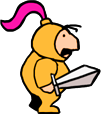
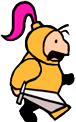
アニメーション

diff --git a/src/EnemyBat.js b/src/EnemyBat.js
@@ -1,6 +1,3 @@
-var HoverHeight = 300; //ホバリング
-var RiseHeight = 240; //Rise上昇
-
 var enemyBat;
 
 var enemyLayer = cc.Layer.extend({
@@ -16,7 +13,7 @@ var enemyLayer = cc.Layer.extend({
 var EnemyBat = cc.Sprite.extend({
   ctor: function() {
     this._super();
-    this.initWithFile(res.bat_frames);
+    this.initWithFile(res.zonbi_frames);
     this.velocity = cc.p(0, 0);
     this.FrameCount = 0;
 
@@ -28,17 +25,13 @@ var EnemyBat = cc.Sprite.extend({
       }
     }
 
-    var animationframe = [];
     //スプライトフレームを格納する配列
-    var texture = cc.textureCache.addImage(res.bat_frames);
-    for (i = 0; i < 2; i++) {
-      for (j = 0; j < 2; j++) {
+    var animationframe = [];
+
+    var frame1 = new cc.SpriteFrame(res.zonbi01_png, cc.rect(0, 0, 96, 120));
         //スプライトフレームを作成
-        var frame = new cc.SpriteFrame.createWithTexture(texture, cc.rect(160 * j, 96 * i, 160, 96));
-        //スプライトフレームを配列に登録
-        animationframe.push(frame);
-      }
-    }
+        animationframe.push(frame1);
+
     //スプライトフレームの配列を連続再生するアニメーションの定義
     var animation = new cc.Animation(animationframe, 0.08);
     //永久ループのアクションを定義
@@ -50,45 +43,4 @@ var EnemyBat = cc.Sprite.extend({
 
   },
 
-  update: function(dt) {
-    this.FrameCount++;
-    //4フレームに1回　こうもりの移動計算する
-    if (this.FrameCount % 4 == 0) {
-      //プレイヤーの位置をこうもりの位置の差を計算
-      var offset_x = player.getPosition().x - this.getPosition().x;
-      var offset_y = player.getPosition().y - this.getPosition().y;
-      //offset_x = offset_x*Math.sin(offset_x);
-      //蝙蝠のｘ移動速度をプレイヤとこうもりの間の距離の0.05倍にする
-      var velocity_x = lerp(this.velocity.x, offset_x, 0.005);
-      var velocity_y = this.velocity.y;
-      //フォバリング高度より上なら下降させる。　降下下限高度より下にいたら、上昇させる
-      if (this.getPosition().y > HoverHeight) velocity_y += -0.035;
-      if (this.getPosition().y < RiseHeight) velocity_y += 0.05;
-      //プレイヤーの位置よりできるだけ下にならないように
-      if (this.getPosition().y < player.y + 20) velocity_y += 0.05;
-      //8の字旋回軌道をsin計算で適当に補正
-      velocity_y += 0.075 * Math.sin(this.FrameCount * 0.015) * Math.sin(this.FrameCount * 0.04);
-
-      //console.log(velocity_x, velocity_y);
-
-      this.velocity.x = velocity_x;
-      this.velocity.y = velocity_y;
-
-      //  console.log(MoveDirection, this.velocity.x, offset.x);
-      if (this.velocity.x <= 0)
-        this.setFlippedX(true);
-      if (this.velocity.x > 0)
-        this.setFlippedX(false);
-
-      this.setPosition(this.getPosition().x + this.velocity.x, this.getPosition().y + this.velocity.y);
-    }
-
-  }
-
-
-
 });
-//始点、終点、の間で 0～1.0の割合の位置を返す関数
-function lerp(fStart, fEnd, fPercent) {
-  return fStart + ((fEnd - fStart) * fPercent);
-}

diff --git a/src/app.js b/src/app.js
@@ -2,11 +2,11 @@ var size;
 //1:地面　2:ブロック　3:プレイヤ　4:ゾンビ 5:こうもり
 var level = [
    [0, 0, 0, 0, 0, 0, 0, 0, 0, 0],
-   [0, 0, 0, 0, 0, 0, 0, 5, 0, 0],
+   [0, 0, 0, 0, 0, 0, 0, 0, 0, 0],
    [0, 0, 0, 0, 0, 0, 2, 2, 2, 0],
    [6, 0, 0, 0, 0, 0, 0, 0, 0, 7],
    [0, 0, 0, 2, 2, 2, 0, 0, 0, 0],
-   [0, 0, 0, 0, 3, 0, 0, 0, 4, 0],
+   [0, 0, 0, 0, 3, 0, 0, 5, 4, 0],
    [1, 1, 1, 1, 1, 1, 1, 1, 1, 1]
 ];
 var tileSize = 96;
@@ -70,7 +70,7 @@ var levelLayer = cc.Layer.extend({
             switch (level[i][j]) {
                case 1:
                   var groundSprite = cc.Sprite.create(res.ground_png);
-                  groundSprite.setPosition(tileSize * 4, tileSize * 1.1);
+                  groundSprite.setPosition(tileSize * 4, tileSize * 1.2);
                   this.addChild(groundSprite);
                   break;
                case 2:
@@ -146,7 +146,7 @@ var Player = cc.Sprite.extend({
       for (i = 0; i < 7; i++) {　　　　　　
          for (j = 0; j < 10; j++) {
             if (level[i][j] == 3) {
-               this.setPosition(tileSize / 2 + tileSize * j, 96 * (7 - i) - tileSize / 1.4);
+               this.setPosition(tileSize / 2 + tileSize * j, 96 * (7 - i) - tileSize / 1.6);
                playerPosition = {
                   x: j,
                   y: i
@@ -164,11 +164,13 @@ var Player = cc.Sprite.extend({
           var frame2 = new cc.SpriteFrame(res.player02_png, cc.rect(0, 0, 96, 120));
           var frame3 = new cc.SpriteFrame(res.player03_png, cc.rect(0, 0, 96, 120));
           var frame4 = new cc.SpriteFrame(res.player04_png, cc.rect(0, 0, 96, 120));
+          var frame5 = new cc.SpriteFrame(res.player05_png, cc.rect(0, 0, 96, 120));
           //スプライトフレームを配列に登録
           animationframe.push(frame1);
           animationframe.push(frame2);
           animationframe.push(frame3);
           animationframe.push(frame4);
+          animationframe.push(frame5);
           //スプライトフレームの配列を連続再生するアニメーションの定義
           var animation = new cc.Animation(animationframe, 0.4);
           //永久ループのアクションを定義
@@ -207,7 +209,7 @@ var Player = cc.Sprite.extend({
       animationframe.push(frame1);
       animationframe.push(frame2);
       //スプライトフレームの配列を連続再生するアニメーションの定義
-      var animation = new cc.Animation(animationframe, 0.08);
+      var animation = new cc.Animation(animationframe, 0.8);
       //永久ループのアクションを定義
       //var action = new cc.RepeatForever(new cc.animate(animation));
       //実行

diff --git a/src/title.js b/src/title.js
@@ -1,0 +1,55 @@
+//myScene.js
+var MyLayer = cc.Layer.extend({
+    ctor: function() {
+        this._super();
+
+        var size = cc.director.getWinSize();
+
+        var TitleBG_png = cc.Sprite.create(res.TitleBG_png);
+         TitleBG_png.setPosition(size.width/2, size.height/2);
+        this.addChild(TitleBG_png);
+
+        var Title_png = cc.Sprite.create(res.Title_png);
+         Title_png.setPosition(480, 330);
+        this.addChild(Title_png);
+
+        var start_png = cc.Sprite.create(res.start_png);
+        start_png.setPosition(size.width / 2, size.height / 4);
+        this.addChild(start_png);
+        //add code
+         //タップイベントリスナーを登録する
+        cc.eventManager.addListener({
+            event: cc.EventListener.TOUCH_ONE_BY_ONE,
+            swallowTouches: true,
+            onTouchBegan: this.onTouchBegan,
+            onTouchMoved: this.onTouchMoved,
+            onTouchEnded: this.onTouchEnded
+        }, this);
+
+        return true;
+    },
+
+    onTouchBegan: function(touch, event) {
+        return true;
+    },
+    onTouchMoved: function(touch, event) {},
+    onTouchEnded: function(touch, event) {
+      //bgmの再生をとめる
+        /*if (audioEngine.isMusicPlaying()) {
+          audioEngine.stopMusic();
+        }*/
+        //クリック時のSE再生
+        //audioEngine.playEffect("res/zabun.mp3");
+        //audioEngine.playEffect("res/se_select16.wav");
+        // 次のシーンに切り替える
+        cc.director.runScene(new gameScene());
+    },
+});
+
+var MyScene = cc.Scene.extend({
+    onEnter: function() {
+        this._super();
+        var layer = new MyLayer();
+        this.addChild(layer);
+    }
+});

diff --git a/src/resource.js b/src/resource.js
@@ -1,4 +1,6 @@
 var res = {
+  //タイトル
+  Title_png: "res/titl.png",
   //プレイヤー
   player_sheet: "res/sir_awesome_frames.png",
   player_plist: "res/player.plist",
@@ -6,6 +8,7 @@ var res = {
   player02_png: "res/player2.png",
   player03_png: "res/player3.png",
   player04_png: "res/player4.png",
+  player05_png: "res/player5.png",
   //背景
   ground_png: "res/background_front.png",
   background_png: "res/background_back.png",
@@ -18,6 +21,8 @@ var res = {
   ui_panels_png: "res/ui_panels.png",
   //敵
   bat_frames: "res/bat_frames.png",
+  zonbi_frames: "res/zombie_frames.png",
+  zonbi01_png: "res/zonbi1.png",
 
 };
 

diff --git a/index.html b/index.html
@@ -6,6 +6,7 @@
     <script type="text/javascript" src="src/resource.js" charset="UTF-8"></script>
     <script type="text/javascript" src="src/EnemyBat.js" charset="UTF-8"></script>
     <script type="text/javascript" src="src/app.js" charset="UTF-8"></script>
+    <script type="text/javascript" src="src/app,jp" charset="UTF-8"></script>
 </head>
 <body>
     <canvas id="gameCanvas" ></canvas>
